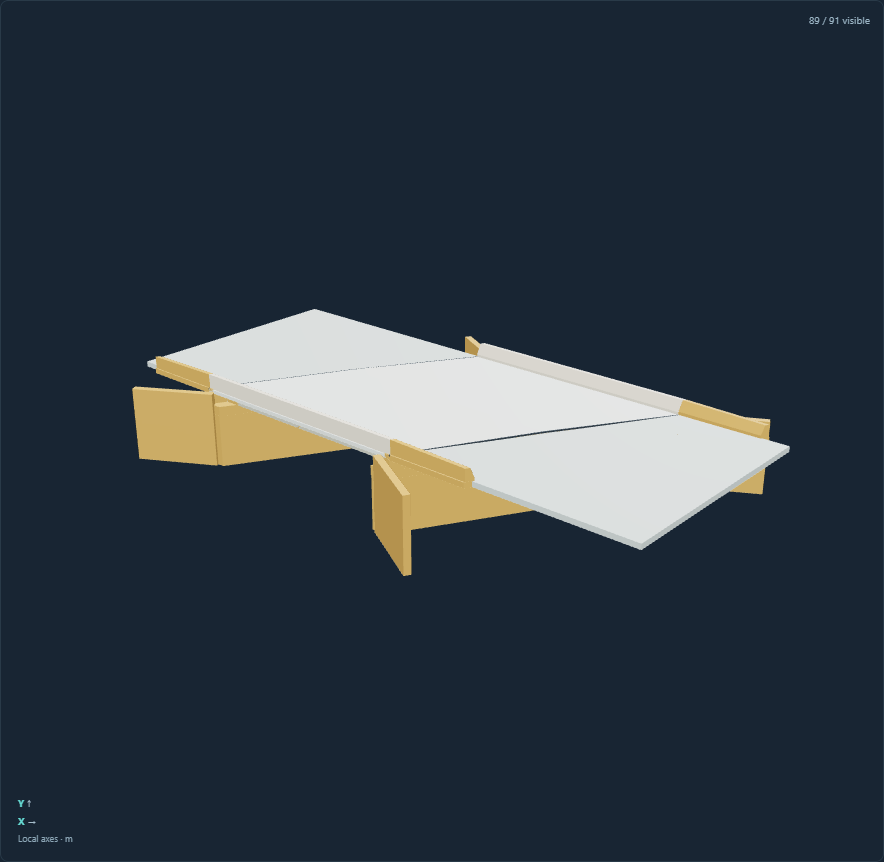
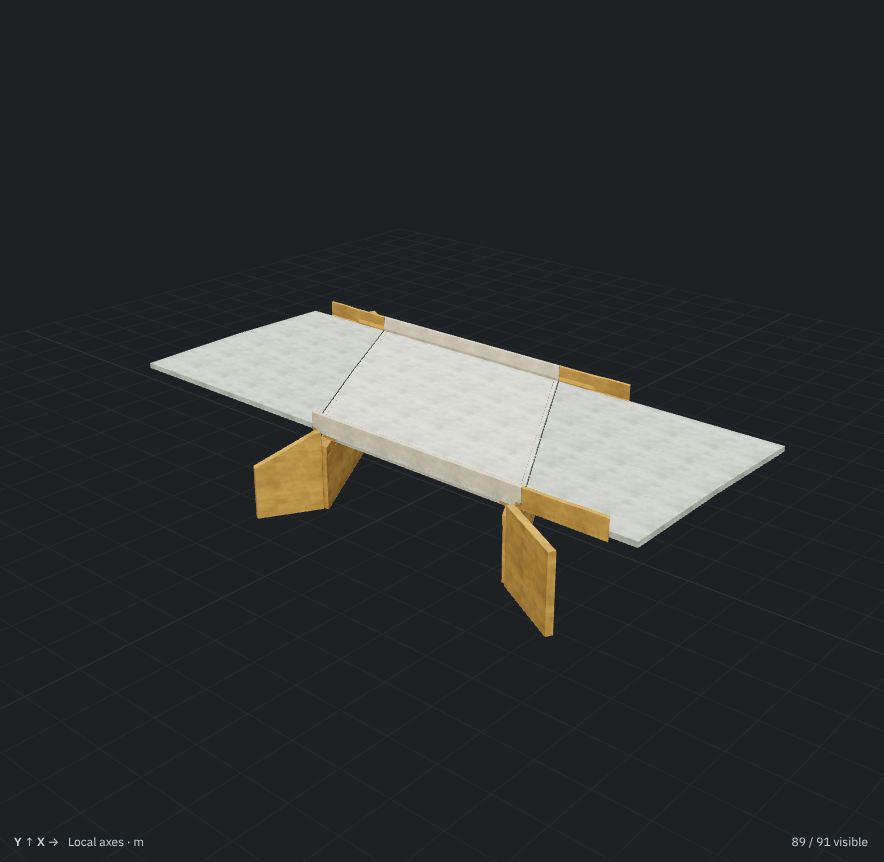
Refresh mirrored bridge thumbnails; drop stale Virginia FEM deviation
- preview.png of US 50 EB, Virginia Avenue, US 35 and US 224 re-captured from
  the viewer (default 3D view, fitted, terrain off), so the map thumbnails show
  the corrected side instead of the mirrored models.
- Virginia Avenue: removed the known deviation "fem-ledger-girder-offsets". It
  said source_ledger.json still had the old girder sign, but the ledger was
  mirrored with the model (Girder 1 at Y +9.2964). The correction script no
  longer adds it, and docs/model-corrections.md says the ledger matches.
- fem/collection/virginia-avenue.json: manifest hash updated; the ledger is
  otherwise unchanged.

Claude-Session: https://claude.ai/code/session_01JumydNCQjQjbrzdbLf2XKq

Changed region(s): [[0.1527, 0.3318, 0.8857, 0.7541], [0.0, 0.9652, 1.0, 1.0], [0.9163, 0.0, 1.0, 0.0302]]

diff --git a/scripts/correct_virginia_avenue_review.py b/scripts/correct_virginia_avenue_review.py
@@ -65,8 +65,8 @@ Derived seat risers follow the corrected bearings: Girder 8 (next to the north g
 sits on the abutment seat datum, so seat_1_8 / seat_2_8 are removed (zero height) and seat_1_3 / seat_2_3 are added.
 
 Unchanged: the 1971 end struts E.S.1 / E.S.2 of bays 2-8 (existing S-7, PDF 65) are not in the review and are not
-added; footings are symmetric and keep their buffers. source_ledger.json (FEM input) still carries the old girder Y
-offsets and is left for the central rebuild.
+added; footings are symmetric and keep their buffers. source_ledger.json (FEM input) is not edited here; its
+transverse values were mirrored to match afterwards (Girder 1 at Y +9.2964).
 
 Requires numpy, trimesh and shapely.
 """
@@ -688,11 +688,6 @@ def correct():
         deviation='The 1971 end struts E.S.1 / E.S.2 along both bearing lines of bays 2-8 are not modelled; only the '
                   '2013 Girder 1-2 end cross-frames are.',
         reason='Outside the reviewed findings; their member sizes are on historical detail sheets not yet read.'))
-    deviations.append(dict(
-        id='fem-ledger-girder-offsets', parts='source_ledger.json', source='sheets 31, 36',
-        deviation='source_ledger.json (FEM input) still lists the girder offsets with the old sign (Girder 1 at Y -9.2964).',
-        reason='FEM inputs are outside this display-model correction and were not edited; the GLB and manifest carry '
-               'the corrected offsets.'))
     manifest['known_deviations'] = deviations
     mp.write_text(json.dumps(manifest, indent=2) + '\n', encoding='utf-8')
     print(json.dumps(dict(changed=len(changed), added=added, removed=removed, kept=kept,

diff --git a/docs/model-corrections.md b/docs/model-corrections.md
@@ -743,7 +743,8 @@ plans put it.
 
 The rail windows remain nominal. The 1971 end struts of bays 2–8 (existing S-7, PDF 65) are recorded as a known
 deviation. Part ids are unchanged except for the four added and two removed seat/frame parts. The rail and wing labels
-now say south/north.
+now say south/north. The transverse values in `source_ledger.json` (FEM input) were mirrored to match, so Girder 1 is
+at Y = +9.2964 m there too.
 
 `scripts/correct_virginia_avenue_review.py` reproduces the correction and is idempotent. It first rebuilds the
 uncorrected geometry and requires it to match the published GLB. The record, the before/after SHA-256 and every
